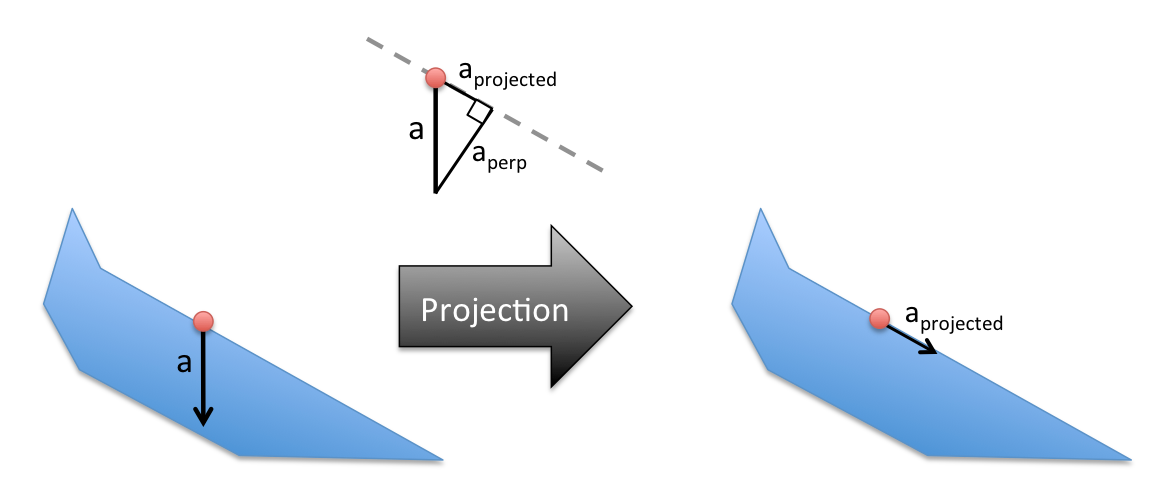
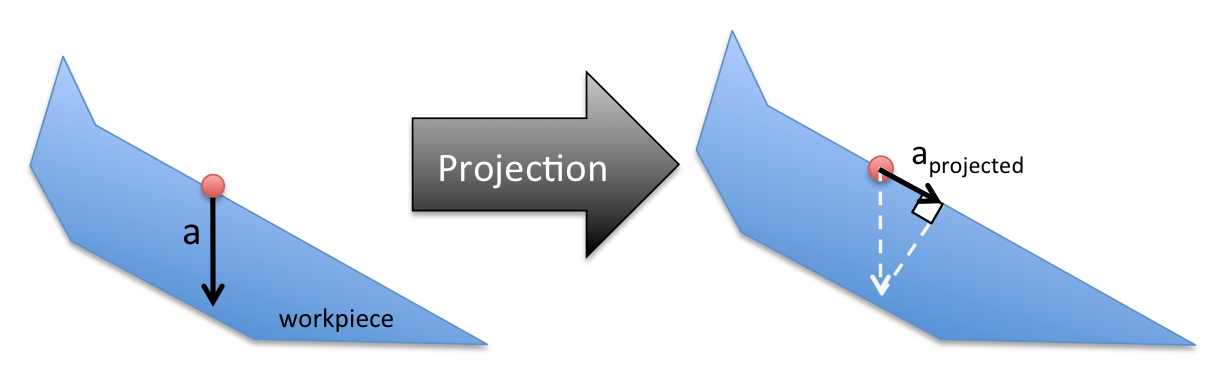
a FUCKING TRAIN

Changed region(s): [[0.339, 0.0873, 0.9863, 0.9312], [0.0, 0.1455, 0.4007, 0.9312], [0.3082, 0.0582, 0.339, 0.1164]]

diff --git a/PhysicalSimulationChapter.tex b/PhysicalSimulationChapter.tex
@@ -1,4 +1,4 @@
-						\chapter{Physical Simulation of Water Particles}
+						\chapter{Physical Simulation of Water Particles}\label{physicalChapter}
 
 Water particle simulation is the underlying core of drainability analysis -- the behavior of the fluid (or water particles in this case) must be simulated in order to analyze when and where the fluid can leave the workpiece.
 
@@ -168,7 +168,7 @@ Subtracting the second equation from the first to perform the cross product and 
 	\label{eq:parabLineTest}
 }
 
-Equation \ref{eq:parabLineTest} can easily solved by the quadratic equation:
+Equation \eqref{eq:parabLineTest} can easily solved by the quadratic equation:
 
 $$
 	\frac{-b \pm \sqrt{b^2 - 4ac}}{2a} = t
@@ -182,36 +182,41 @@ $$
 
 Solving for $t$ will yield two values, representing points along the parabola path that intersect the line defined by $\vec{d}$ and $\vec{s}$:
 
-\myfigure{width=0.6\linewidth}{parablinetest4}{Solution points for the parabola-line intersection test.}
+\myfigure{width=0.7\linewidth}{parablinetest4}{Solution points for the parabola-line intersection test.}
 
 This concludes the parabola-line intersection tests. For our simulation purposes, we would like to determine the first point that lies on on the edge defined by $\vec{d}$ and $\vec{s}$ rather than the line. This requires a small extra validation step; first, negative values of $t$ are eliminated, for these points represent the particle traveling backwards in time. Then, the smallest value of $t$ is found that produces a point that lies inbetween points $\vec{s}$ and $\vec{s} + \vec{d}$. If no such value exists, this parabola does not intersect the given edge.
 
 \section{Equation Types}
 
-Now that we have defined a parabolic path segment in parametric form, we would like to use this equation to simulate particle movement over time. During the course of simulation however, a particle may be traveling in a variety of conditions which require modifications to Equation \eqref{eq:freeFall}. The two primary conditions that determine the modifications necessary are:
+Now that we have defined a parabolic path segment in parametric form and demonstrated a geometric primtive intersection test, we would like to use this equation to simulate particle movement over time. During the course of simulation however, a particle may be traveling in a variety of conditions which require modifications to Equation \eqref{eq:freeFall}. The two primary conditions that determine the modifications necessary are:
 
 \begin{itemize}
 	\item Whether the workpiece is rotating
-	\item Whether the particle is traveling along a workpiece surface or through open space.
+	\item Whether the particle is traveling along a workpiece edge or through open space.
 \end{itemize}
 
 These two conditions, when combined in all possible ways, produce four scenarios of particle simulation that must be modeled. The following sections cover each scenario and detail the equation used.
 
-		\subsection{\#1: Free Fall Equation}
 
-When the particle is moving through open space with no workpiece rotation, we consider that particle to be in basic ``free-fall.'' Equation \eqref{eq:freeFall} gives us the equation that models this scenario; the particle travels through empty space with a constant acceleration field. The resulting motion is a parabola, and no modification to Equation \eqref{eq:freeFall} is necessary.
+\section{No Rotation}
+
+We first examine the two scenarios where no rotation of the workpiece occurs during simulation.
+
+		\subsection{Scenario \#1: Free Fall Equation}
+
+When the particle is moving through open space with no workpiece rotation, we consider that particle to be in basic ``free-fall.'' Equation \eqref{eq:freeFall} gives us the equation that models this scenario; the particle travels through empty space subject to a constant acceleration field. The resulting motion is a parabola, and no modification to Equation \eqref{eq:freeFall} is necessary.
 
 \myfigure{width=0.9\linewidth}{freefallequation}{Example path traced out by the ``free-fall'' equation}
 
-		\subsection{\#2: Sliding Equation}
+		\subsection{Scenario \#2: Sliding Equation}
 
-During simulation, a particle may also begin to travel along an edge if it has a perpendicular edge-velocity less than $\epsilon$. This produces another scenario of particle simulation -- a particle traveling along an edge when the workpiece is not rotating.
+During simulation, a particle may also begin to travel along an edge. This usually occurs after a particle collides with an edge multiple times in a row and obtains a velocity that is parallel to the edge. Our simulation algorithm performs this test by checking if the velocity component perpendicular to the edge becomes smaller than some pre-defined $\epsilon$ value; if this is true, the particle is now a ``sliding'' scenario.
 
-In this scenario, the acceleration of the particle in free-fall is projected along the surface of the workpiece. If this projected acceleration is zero, the particle will stay in place; if not, the particle will begin to ``slide'' along this edge.
+In this scenario, the acceleration vector is projected along the surface of the workpiece. If this projected acceleration is zero, the particle will stay in place; if not, the particle will begin to ``slide'' along this edge.
 
-We achieve the modeling of this scenario by projecting the acceleration in Equation \eqref{eq:freeFall} along the workpiece surface, which produces a straight-line path.
+We achieve the modeling of this scenario by projecting the ``free-fall'' acceleration in Equation \eqref{eq:freeFall} along the workpiece edge, which produces a straight-line path.
 
-Note that while the particle is now traveling along an edge, it is essentially the same as the free-fall equation with a new projected acceleration.
+Note that while the particle is now traveling along an edge, the resulting equation takes on the same form as the free-fall equation; the only difference is that the acceleration is now projected.
 
 \myequation{
 	\vec{x}(t) = \vec{x}_0 + \vec{v}_{0} \cdot t + \frac{1}{2}\vec{a}_{projected} \cdot t^2
@@ -221,23 +226,23 @@ Note that while the particle is now traveling along an edge, it is essentially t
 
 \myfigure{width=0.8\linewidth}{slidingequation}{Demonstration of the sliding equation.}
 
-With these two formulations, the water particle's path can be simulated on both edges and in open space when the acceleration field is constant (e.g. the workpiece is not rotating). Furthermore, because both of these equations are strictly quadratic in $t$, they can be substituted into the definition of geometric primitives to perform intersect tests. Further modifications to Equation \eqref{eq:freeFall} may sacrifice our ability to perform constant-time intersections.
+With these two formulations, the particle's path can be simulated on both edges and in open space when the acceleration field is constant (e.g. the workpiece is not rotating). Furthermore, because both of these equations are strictly quadratic in $t$, they can be substituted into the definition of geometric primitives to perform intersect tests.
 
-		\subsection{Rotation}
+\section{Rotation}
 
 Here we begin to examine the scenarios where the workpiece is rotating during particle simulation.
 
-In this paper, we choose our frame of reference to be the $X$ $Y$ axes that define the workpiece geometry. This means that when the workpiece rotates, our frame of reference stays fixed to the workpiece. Consequently, rotation changes the orientation of the acceleration field changes in time.
+In this paper, we choose our frame of reference to be the $X$ $Y$ axes that define the workpiece geometry. This means that when the workpiece rotates, our frame of reference stays fixed to the workpiece. Consequently, rotation changes the orientation of the acceleration field changes.
 
-We see now how this rotating acceleration field affects the following scenarios.
+We see now how this rotating acceleration field affects the following scenarios. While we originally presented the edge travel scenario (Scenario \#2) second in the ``No Rotation'' section, we will present the edge travel scenario first in the ``Rotation'' section. This will illuminate the challenges we face when simulating the last scenario presented.
 
-		\subsection{\#3: Concurrent Rotation \& Sliding Equation}
+		\subsection{Scenario \#3: Concurrent Rotation \& Sliding Equation}
 
 In this scenario, the particle is traveling along a workpiece edge and the workpiece is rotating.
 
 We know that the acceleration vector is projected along the edge during edge travel. This means that the direction of the acceleration in this scenario is fixed; only the magnitude of the projected acceleration varies as the workpiece rotates. Consequently, rotation of the acceleration field only results in the magnitude of the projected acceleration changing.
 
-This leads to a special case of particle motion, referred to as ``concurrent rotation and sliding.'' Equation \eqref{eq:slidingRotating} shows the resulting formulation of this scenario.
+This leads to a special case of particle motion which we will refer to as ``concurrent rotation and sliding.'' We first define $\hat{a}_{projected}$ as a constant unit-vector in the direction of the edge and $|a_{projected}|(t)$ as the magnitude of the projected acceleration over time. With these two new variables, we can show the resulting formulation of this scenario in Equation \eqref{eq:slidingRotating}.
 
 \myequation{
 	\vec{x}(t) = \vec{x}_0 + \vec{v}_{0} \cdot t + \frac{1}{2}\hat{a}_{projected}  \cdot t^2 \cdot |a_{projected}|(t)
@@ -245,7 +250,12 @@ This leads to a special case of particle motion, referred to as ``concurrent rot
 	\label{eq:slidingRotating}
 }
 
-In Equation \eqref{eq:slidingRotating}, $\hat{a}_{projected}$ is a constant unit-vector in the direction of the edge. The $|a_{projected}|(t)$ term scales as the acceleration field changes direction. If the rotation occurs at a constant rate and the acceleration vector begins perpendicular to the edge, the magnitude term can be modeled as
+This scenario is further illustrated in Figure \ref{scenario4}.
+
+\myfigure{width=0.6\linewidth}{scenario4}{Illustration of Scenario \#4 -- concurrent rotation and free-fall.}
+
+If rotation occurs at a constant rate and the acceleration vector begins perpendicular to the edge, the magnitude term can be modeled as
+
 $$
 mag_{accel} = cos(\omega \cdot t)
 $$
@@ -254,13 +264,13 @@ where $\omega$ is the angular velocity.
 
 		\subsubsection{Concurrent Rotation \& Sliding Equation Intersection}
 
-In Equation \eqref{eq:slidingRotating}, we no longer have a formulation of particle motion that is strictly quadratic in $t$. With the additional $cos$ term, it is now quite difficult to solve for particle-primitive intersections. We can, however, easily substitute in values of $t$ to determine the position of the particle at a given time.
+In Equation \eqref{eq:slidingRotating}, we no longer have a formulation of particle motion that is strictly quadratic in $t$. The trigonometric terms introduced by the rotation of the workpiece make it impossible to solve for particle-primitive intersections in constant time. We can, however, easily substitute in values of $t$ to determine the position of the particle at a given time.
 
-The ability to determine where the particle is at a given time will be crucial for our methods later; this scenario will still be simulated, despite the inability to intersect these trajectories with geometric primitives.
+Despite the inability to intersect these trajectories with geometric primitives in constant time, we still simulate this scenario in practice. The reasons for this will be detailed after Scenario \#4 is presented, when a holistic comparison of these two scenarios can be conducted.
 
-		\subsection{\#4: Concurrent Rotation \& Free-Fall Equation}
+		\subsection{Scenario \#4: Concurrent Rotation \& Free-Fall Equation}
 
-The fourth scenario is when the particle is traveling through open space and the workpiece is rotating in time. In this case, the acceleration vector is no longer projected along an edge as shown in Equation \eqref{eq:slidingRotating}. The acceleration vector now has a direction that changes in time (with a fixed magnitude), as shown in Equation \eqref{eq:freefallRotating}.
+The fourth scenario is when the particle is traveling through open space and the workpiece is rotating. In this case, the acceleration vector is no longer projected along an edge as shown in Equation \eqref{eq:slidingRotating}. The acceleration vector now has a direction that changes in time (with a fixed magnitude), as shown in Equation \eqref{eq:freefallRotating}.
 
 \myequation{
 	\vec{x}(t) = \vec{x}_0 + \vec{v}_{0} \cdot t + \frac{1}{2}\vec{a}(t)  \cdot t^2
@@ -268,7 +278,7 @@ The fourth scenario is when the particle is traveling through open space and the
 	\label{eq:freefallRotating}
 }
 
-Here, the $\vec{a}(t)$ term describes the acceleration vector over time as the workpiece rotates. Assuming a constant rotation, this term breaks down to
+Here, the $\vec{a}(t)$ term describes the acceleration vector over time as the workpiece rotates. Assuming a constant rotation, this term breaks down to:
 
 $$
 a_x = cos(\alpha t) \cdot |a_g|
@@ -278,19 +288,19 @@ $$
 a_y = sin(\alpha t) \cdot |a_g|
 $$
 
-This scenario produces paths that are not strictly parabolic, as seen below.
+This scenario produces paths that mathematically are not parabolic, as illustrated below in Figure \ref{norotationfreefall}.
 
 \myfigure{width=0.9\linewidth}{norotationfreefall}{Demonstration of the particle path during concurrent rotating and free-fall}
 
-		\subsubsection{Assumption \#1 - No concurrent Rotation + Free-fall}
+		\subsubsection{Assumption \#1 - No concurrent Rotation and Free-fall}
 
-These non-linear terms produce an equation with many more terms, some of which are trigonometric. Consequently, we can no longer combine this equation with geometric primitives easily to determine intersection points in constant time.
+These non-linear trigonometric terms produce an equation that can no longer be intersected against a geometric primitive in constant-time. Intersection points can still be calculated for these path segments via approaches like Newton's method, but doing so requires additional computational time. Our approach to the draining problem requires many different particle simulations; consequently, we restrict our simulation scenarios to having constant-time intersection tests.
 
-This effectively prevents our ability to simulate particles in this scenario, leading us to our first assumption and restriction in this paper -- particles may not travel through open space while the workpiece is rotating.
+This restriction effectively prevents our ability to simulate particles in this ``concurrent rotation and free-fall'' scenario, leading us to our induced first assumption and restriction in this paper -- particles may not travel through open space while the workpiece is rotating.
 
 		\subsubsection{Resolution of Scenario \#3}
 
-The third scenario, concurrent rotation and sliding, similarly has a kinetic path equation that cannot be easily intersected with geometric primitives. The key difference between this scenario and scenario 4, however, is that the particle is traveling along a known edge. With this edge's length and the duration of the turn known, we can compute the position of the particle after the specified turn duration time.
+The third scenario, concurrent rotation and sliding, similarly has a kinetic path equation that cannot be easily intersected with geometric primitives. The key difference between this scenario and scenario \#4, however, is that the particle is traveling along a known edge. With this edge's length and the duration of the turn known, we can compute the position of the particle after the specified turn duration time.
 
 If the particle is still on the same edge at the end of the turn, we can then proceed with simulation because we are guaranteed that the particle did not collide with any other surface during the turn. If the particle is beyond the length of the edge at the end of the turn, we do not have this no-collision guarantee and cannot proceed with simulation.
 

diff --git a/ModelingChapter.tex b/ModelingChapter.tex
@@ -10,7 +10,7 @@ Drainability analysis requires many different rounds of fluid simulation in many
 
 	\subsection{Core Assumptions}
 
-Yasui et al. \cite{Yasui2011} chose a simplified particle modeling approach with a few core underlying simplifications:
+Yasui et al. \cite{Yasui2011} chose a simplified particle modeling approach with the following core assumptions:
 
 \begin{itemize}
 	\item Each fluid body within the workpiece is approximated as a single particle
@@ -20,7 +20,7 @@ Yasui et al. \cite{Yasui2011} chose a simplified particle modeling approach with
 
 	\subsection{Modeling Choice Advantages and Disadvantages}
 
-This modeling approach allowed Yasui et al. to reduce the fluid draining problem down to a particle draining problem. Furthermore, particle simulation within the workpiece is greatly simplified; particles always travel in straight lines and do not accumulate kinetic energy. This means that particles are always traveling either parallel to gravity or along a workpiece surface.
+This modeling approach allowed Yasui et al. to reduce the fluid draining problem down to a particle draining problem. Furthermore, particle simulation within the workpiece is greatly simplified; particles always travel in straight lines and do not accumulate kinetic energy. This means that particles are always traveling either parallel to gravity or along a workpiece edge.
 
 Consequently, particle simulation in this choice of model was essentially reduced to finding intersections between lines and surfaces. An intersection test between a line and a surface runs in constant time; consequently, intersecting a line with the entire workpiece is linear in the number of triangles. Yasui et al. used bounding-box methods to reduce this complexity to sub-linear in the number of triangles, meaning each intersection test (and particle simulation as a whole) was then computationally inexpensive \cite{Yasui2011}.
 
@@ -59,6 +59,14 @@ This model is based on the following assumptions:
 	\item The workpiece's rotation speed is non-constant
 	\item The workpiece is a two dimensional polygon
 \end{itemize}
+
+These simplifying assumptions define the model that we use. Additionally, one more restriction is imposed due to simulation constraints:
+
+\begin{itemize}
+	\item Particles may not travel through open space during workpiece rotation
+\end{itemize}
+
+The reasons for this additional assumption are detailed in Chapter \ref{physicalChapter}.
 
 It is important to note that in the following chapters, we present our methods with a focus on single-particle draining for simplicity of presentation. We then extend this work to multiple particles in the penultimate chapter.
 

diff --git a/abstract.tex b/abstract.tex
@@ -2,7 +2,7 @@
 
 \begin{abstract}
 
-This paper provides several contributions related to the workpiece drainability problem in manufacturing. First we describe our parametric approach to a particle model that uses parabolic path segments rather than straight-line segments. This improvement allows for particles to maintain velocity, travel through rotating acceleration fields, and collide with workpiece surfaces while maintaining constant-time intersecton tests per geometric primitive.
+This paper provides several contributions related to the workpiece drainability problem in manufacturing. First we describe our parametric approach to a particle model that uses parabolic path segments rather than straight-line segments. This improvement allows for particles to maintain velocity, travel through rotating acceleration fields, and collide with workpiece edges while maintaining constant-time intersecton tests per geometric primitive.
 
 Next we provide a framework for approaching the drainability problem from an artificial intelligence perspective. We define our state space formulation and note how the size of the state space is linear with geometric features and exponential with the number of particles being drained. We then define our sampling approach to the successor function; this sampling appraoch allows us to discover the majority of connectivity information while only exploring a subset of the action space.
 

diff --git a/futureWorkChapter.tex b/futureWorkChapter.tex
@@ -50,6 +50,33 @@ CPU Self Time & CPU Total Time & Function \\ \hline
 
 An important note here is that only 46.08\% of execution time was spent doing computation; the rest was idle time used for animation.
 
+  \subsection{Constants}
+
+The above results were obtained with the following values for simulation constants:
+
+\begin{table}[H]\label{constantsTable}
+\begin{tabular}{|c|c|c|}
+\hline
+Constant Description & Symbol & Value \\ \hline
+Particle Elasticity & $\kappa$ & 0.5 \\
+Perpendicular Edge Velocity & $\epsilon$ & 0.9\\
+\end{tabular}
+\end{table}
+
+
+  \subsection{Scenario \#4 Rejection}
+
+Our preliminary tests indicate that our restriction on scenario \#4 during simulation does not have a large effect on obtaining a solution. While we are not able to determine if workpieces exist in which every solution contains a scenario \#4 particle path, we present a summary of the number of samples rejected due to this restriction below in Table \ref{scenario4rejects}.
+
+
+\begin{table}[H]\label{scenario4rejects}
+\begin{tabular}{|c|c|c|c|}
+\hline
+Test Piece URL & Total Samples & Scenario \#4 Samples Rejected & Percentage \\ \hline
+$/index.html?demo$ & 3400 & 854 & 25.12\%\\
+$/yc.html?demo$ & 1200 & 264 & 22\% \\
+\end{tabular}
+\end{table}
 
 \section{Future Work \& Discussion}
 

diff --git a/multipleExtensionChapter.tex b/multipleExtensionChapter.tex
@@ -52,7 +52,7 @@ $$
 (num(V_{cc}) + 1)^n
 $$
 
-This leads to a time-complexity that is now exponential in the number of concave vertices, rather than linear as in \eqref{eq:bigo}:
+This leads to a time-complexity that is now exponential in the number of concave vertices, rather than linear as in Equation \eqref{eq:bigo}:
 
 \myequation{
 O(S \cdot E^2 \cdot V_{cc}^{n})
